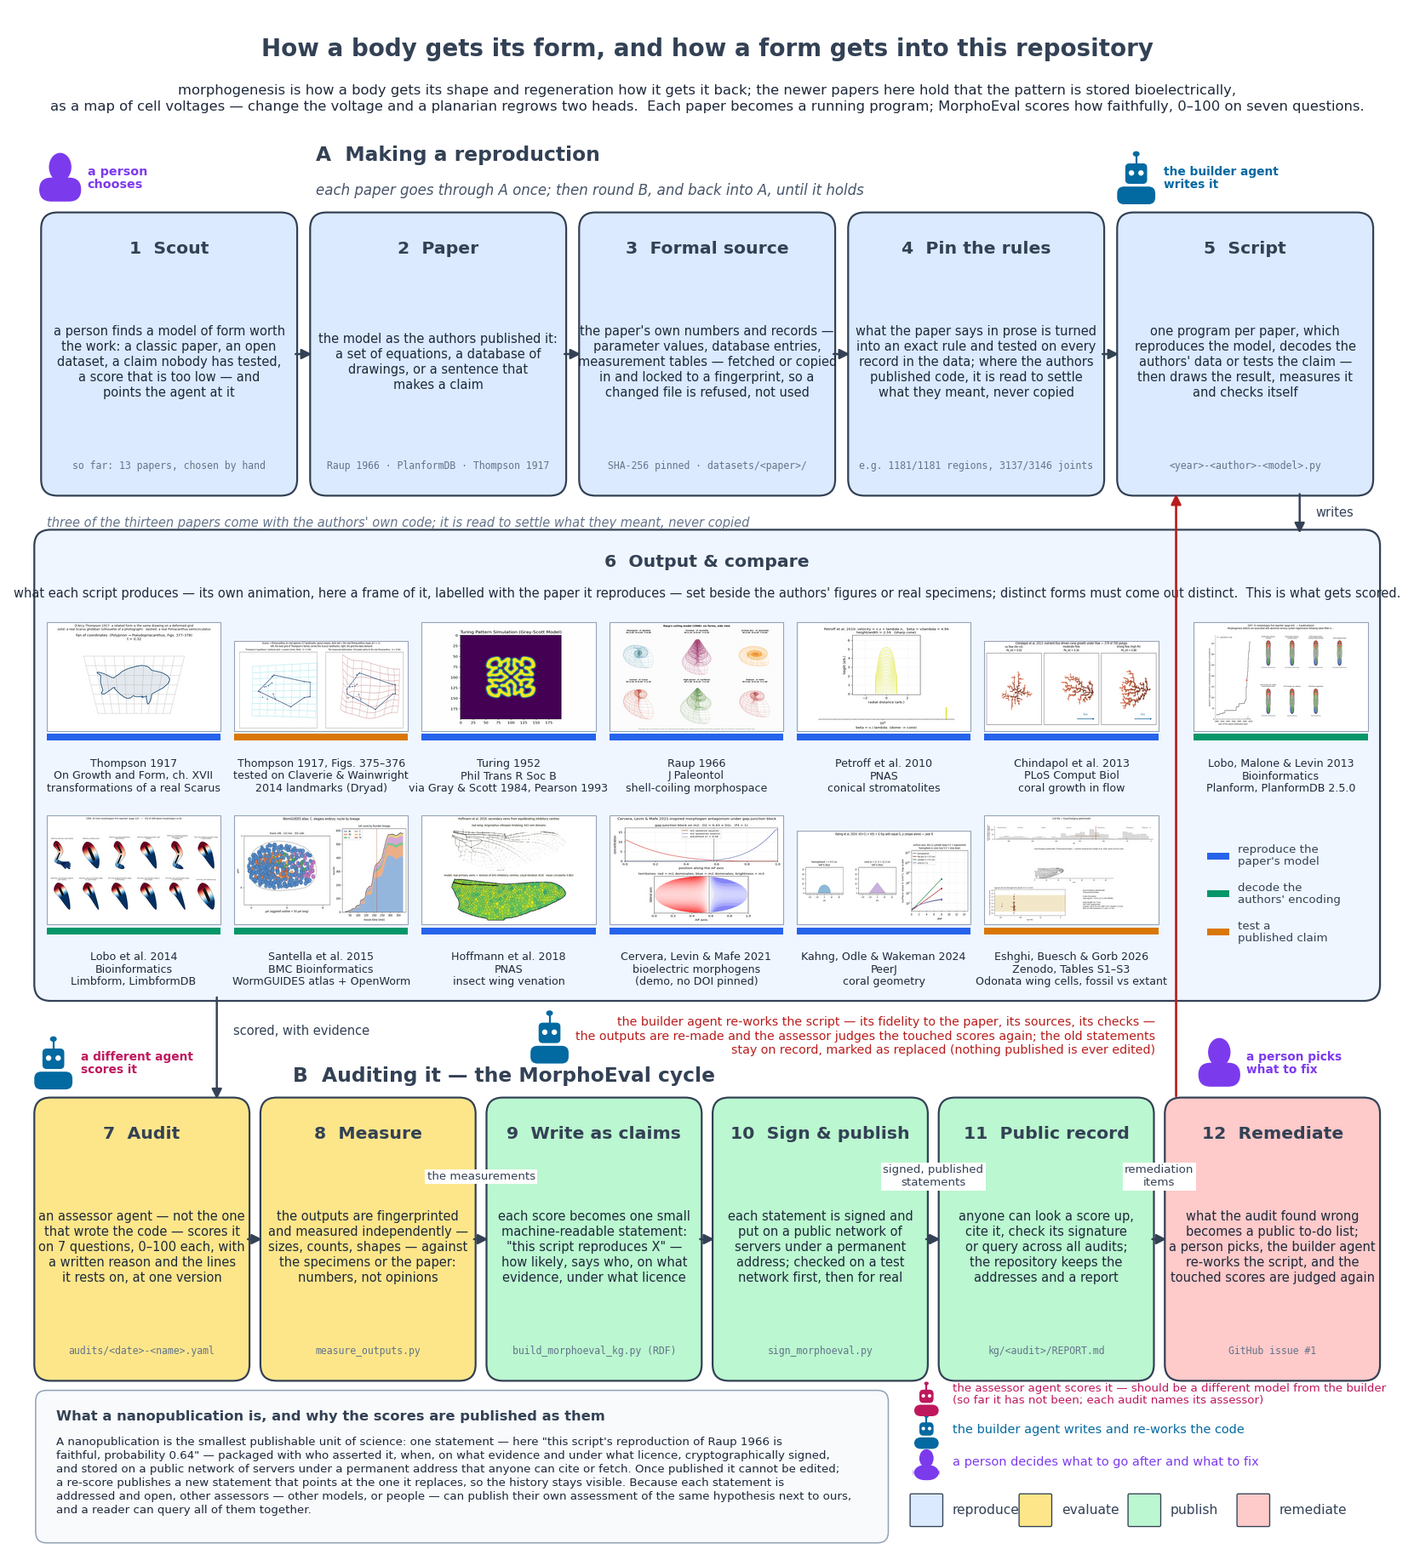
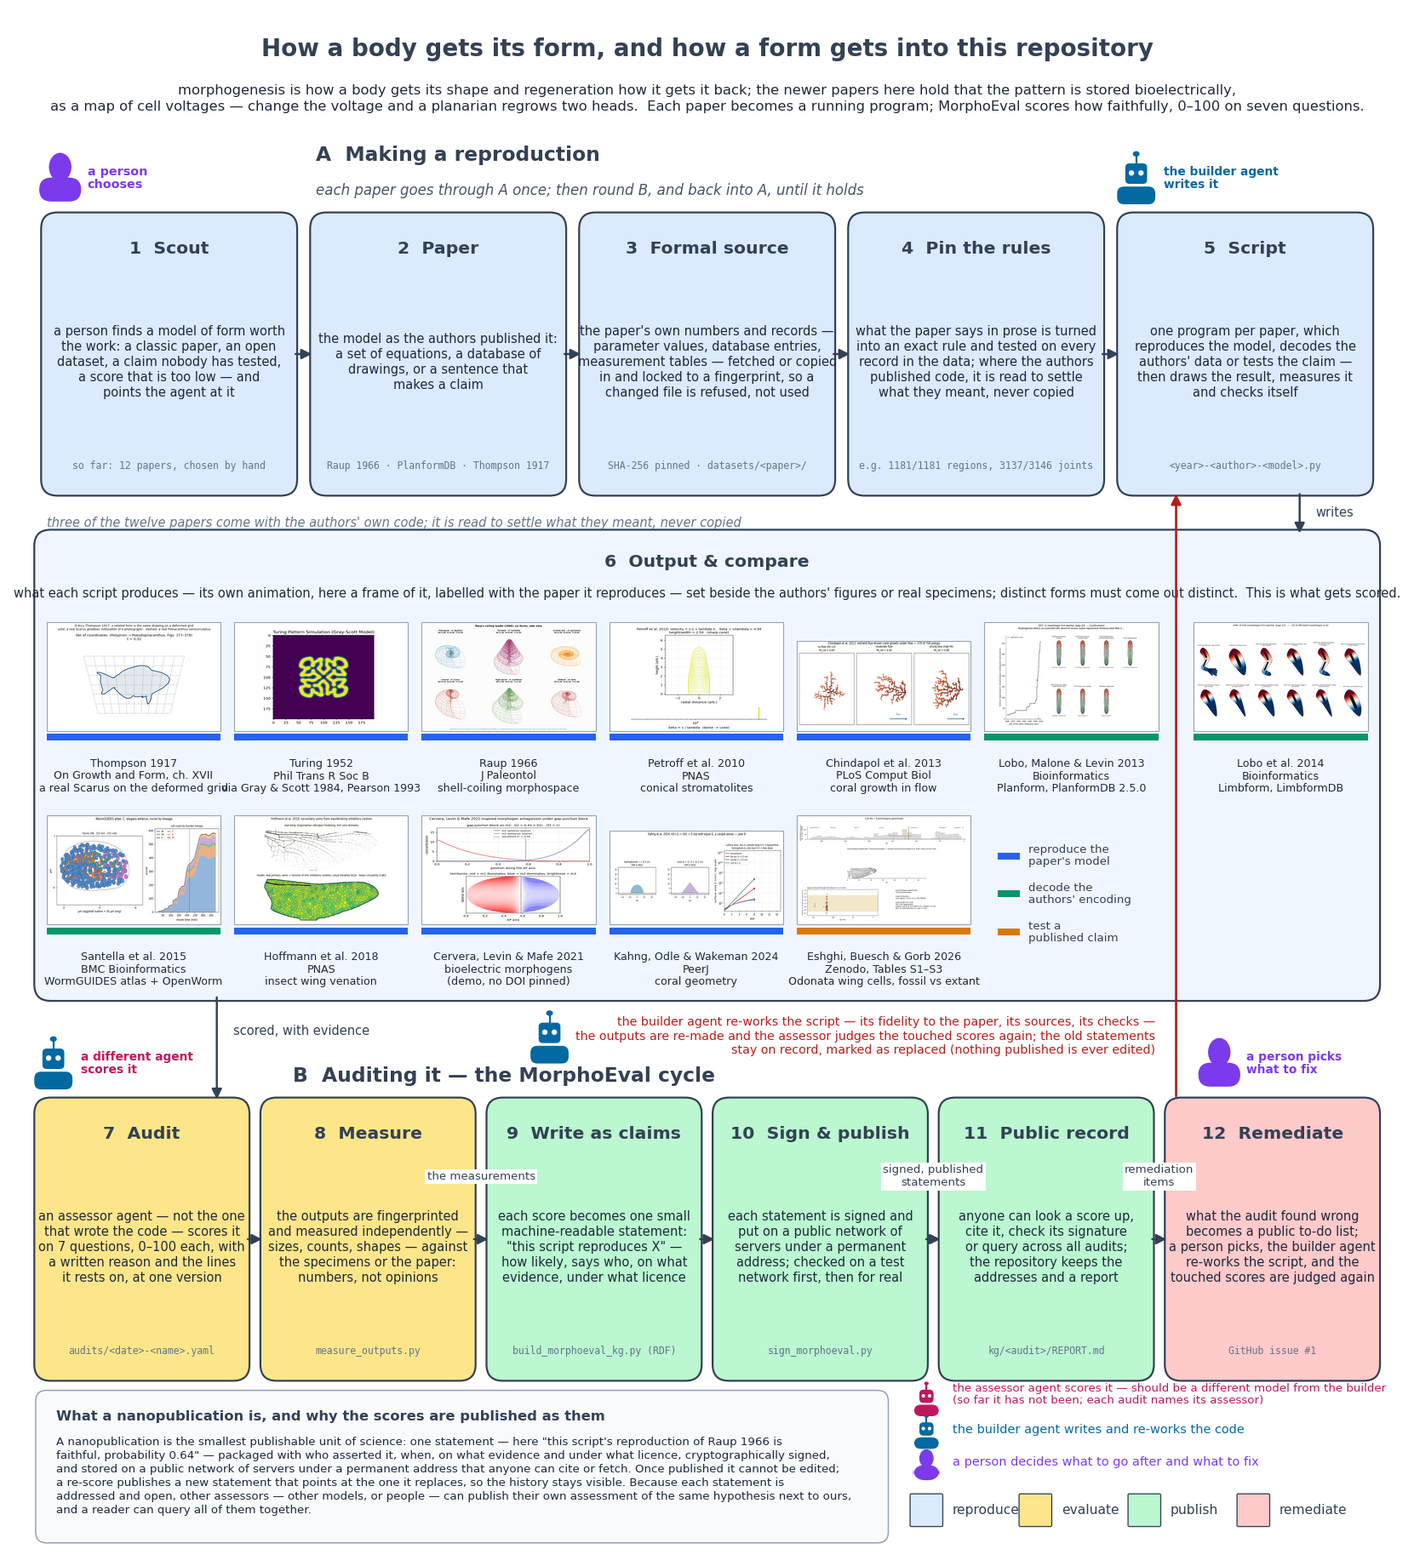
Drop the landmark-polygon Thompson tile from the diagram and montage; the real-fish tile stands for Thompson

diff --git a/morphoeval/report/draw_pipeline.py b/morphoeval/report/draw_pipeline.py
@@ -57,7 +57,7 @@ BOXES = {
 }
 # the file or term behind each tier-B box, in small type under the plain-language body
 TERMS = {
-    "scout": "so far: 13 papers, chosen by hand", "paper": "Raup 1966 · PlanformDB · Thompson 1917",
+    "scout": "so far: 12 papers, chosen by hand", "paper": "Raup 1966 · PlanformDB · Thompson 1917",
     "source": "SHA-256 pinned · datasets/<paper>/", "rules": "e.g. 1181/1181 regions, 3137/3146 joints",
     "script": "<year>-<author>-<model>.py", "audit": "audits/<date>-<name>.yaml", "measure": "measure_outputs.py",
     "build": "build_morphoeval_kg.py (RDF)", "publish": "sign_morphoeval.py",
@@ -69,8 +69,7 @@ AGENTS = {"script": (BUILDER, "the builder agent\nwrites it"), "audit": (ASSESSO
 # the papers, in year order, with a frame of each reproduction's own animation (docs/media/*.gif)
 MEDIA = ROOT / "docs" / "media"
 PAPERS = [  # (gif, caption lines, kind)
-    ("thompson_transformations.gif",      "Thompson 1917\nOn Growth and Form, ch. XVII\ntransformations of a real Scarus", "reproduce"),
-    ("thompson_scarus_pomacanthus.gif",   "Thompson 1917, Figs. 375–376\ntested on Claverie & Wainwright\n2014 landmarks (Dryad)", "test"),
+    ("thompson_transformations.gif",      "Thompson 1917\nOn Growth and Form, ch. XVII\na real Scarus on the deformed grid", "reproduce"),
     ("turing_gray_scott.gif",             "Turing 1952\nPhil Trans R Soc B\nvia Gray & Scott 1984, Pearson 1993", "reproduce"),
     ("raup_shell_coiling.gif",            "Raup 1966\nJ Paleontol\nshell-coiling morphospace", "reproduce"),
     ("petroff_stromatolite_dome_to_cone.gif", "Petroff et al. 2010\nPNAS\nconical stromatolites", "reproduce"),
@@ -102,7 +101,7 @@ def gif_frame(name: str, frac: float = 0.55):
 
 
 def strip(ax):
-    """Box 6: the outputs.  Two rows of thumbnails (7 + 6), each a frame of a script's own animation, labelled
+    """Box 6: the outputs.  Two rows of thumbnails (7 + 5), each a frame of a script's own animation, labelled
     with the paper it comes from.  Framed like a tier-A box because it is one: the thing Compare and Audit look at."""
     cols, gap, wide = 7, 1.0, 2.6; tw = (97.0 - (cols - 2) * gap - wide) / cols; row_h = 14.2   # the last gap is wider: the fix loop runs through it
     top = YS + 2 * row_h + 5.8
@@ -123,7 +122,7 @@ def strip(ax):
         ax.add_patch(FancyBboxPatch((x, y + 5.6), tw, th, boxstyle="square,pad=0", fc="none", ec="#94a3b8", lw=0.5, zorder=4))
         ax.add_patch(FancyBboxPatch((x, y + 4.9), tw, 0.5, boxstyle="square,pad=0", fc=KIND_COL[kind], ec="none", zorder=3))
         ax.text(x + tw / 2, y + 2.3, cap, ha="center", va="center", fontsize=5.7, color="#1e293b", linespacing=1.15, zorder=3)
-    x = col_x[6]; y = YS                                              # legend in the free slot of row 2
+    x = col_x[5]; y = YS                                              # legend in the free slot of row 2 (the last slot stays empty: the fix loop runs past it)
     for j, (k, c) in enumerate(KIND_COL.items()):
         ax.add_patch(FancyBboxPatch((x + 1.0, y + 10.4 - j * 2.8), 1.6, 0.5, boxstyle="square,pad=0", fc=c, ec="none", zorder=3))
         ax.text(x + 3.2, y + 10.65 - j * 2.8, {"reproduce": "reproduce the\npaper's model", "decode": "decode the\nauthors' encoding",
@@ -261,7 +260,7 @@ def main(argv=None):
     arrow(ax, "paper", "r", "source", "l")
     arrow(ax, "source", "r", "rules", "l")
     arrow(ax, "rules", "r", "script", "l")
-    ax.text(XA[0], YA - 2.4, "three of the thirteen papers come with the authors' own code; it is read to settle what they meant, never copied",
+    ax.text(XA[0], YA - 2.4, "three of the twelve papers come with the authors' own code; it is read to settle what they meant, never copied",
             ha="left", va="center", fontsize=6.6, color="#64748b", style="italic")
 
     # Script -> outputs (down into box 6), outputs -> Audit (down out of box 6)

diff --git a/docs/media/make_montage.py b/docs/media/make_montage.py
@@ -25,7 +25,6 @@ ROOT = HERE.parents[1]
 # (gif, year, label, script) in year order; the label is what fits under a ~200-px tile
 CLIPS = [
     ("thompson_transformations.gif",       "1917", "Thompson, transformations (real fish)",  "thompson/1917-thompson.py"),
-    ("thompson_scarus_pomacanthus.gif",    "1917", "Thompson, Scarus → Pomacanthus", "thompson/1917-thompson-scarus-pomacanthus.py"),
     ("turing_gray_scott.gif",              "1952", "Turing / Gray–Scott patterns",            "1952-turing-morpho.py"),
     ("raup_shell_coiling.gif",             "1966", "Raup, shell coiling",                     "create_raup_animations.py"),
     ("petroff_stromatolite_dome_to_cone.gif", "2010", "Petroff, stromatolites",               "2010-petroff-stromatolite.py"),
@@ -38,6 +37,8 @@ CLIPS = [
     ("kahng_coral_geometry_growth.gif",    "2024", "Kahng, coral geometry",                   "2024-kahng-coral-geometry.py"),
     ("odonata_wing_cells_deep_time.gif",   "2026", "Eshghi, Odonata wing cells",              "2026-eshghi-odonata-wing-cells.py"),
 ]
+# scored scripts that have no tile of their own (their output is a still, or another tile of the same paper stands for them)
+SCORED_ONLY = {"thompson/1917-thompson-scarus-pomacanthus.py": ("1917", "Thompson fish")}
 BG, FG, DIM, ACCENT = (250, 250, 248), (30, 41, 59), (100, 116, 139), (23, 190, 207)
 
 
@@ -85,6 +86,7 @@ def score_tile(w: int, h: int, sc: dict[str, float]) -> Image.Image:
     short = {"1952-turing-morpho.py": "Turing", "create_raup_animations.py": "Raup", "2015-santella-wormguides-celegans.py": "C. elegans",
              "2026-eshghi-odonata-wing-cells.py": "Odonata", "thompson/1917-thompson-scarus-pomacanthus.py": "Thompson fish"}
     rows = [(c[1], short.get(c[3], c[2].split(",")[0]), sc[c[3]]) for c in CLIPS if c[3] in sc]
+    rows += [(y, n, sc[s]) for s, (y, n) in SCORED_ONLY.items() if s in sc]            # scored scripts without a tile
     rows.sort(key=lambda r: -r[2])
     y0, bar_h = 24, max(8, (h - 30) // max(1, len(rows)))
     fnt = font(8)

diff --git a/README.md b/README.md
@@ -6,9 +6,9 @@ A collection of small, self-contained reproductions of published models of biolo
 
 Morphogenesis is how a living thing gets its shape, and regeneration is how it gets it back: cells divide, move and signal until a body plan appears, or reappears after a cut. The classic models of form reproduced here are geometric ([Thompson's transformations](#thompson1917-thompsonpy), [Raup's coiling shells](#1966-rauppy)), chemical ([Turing's reacting and diffusing morphogens](#1952-turing-morphopy)) or physical ([coral](#2013-chindapol-coral-flowpy) and [stromatolite](#2010-petroff-stromatolitepy) growth shaped by flow and light). The newer idea most of the rest turn on is that the pattern is also stored and read out *bioelectrically*: every cell holds a resting voltage across its membrane, neighbouring cells share it through gap junctions, and the resulting voltage map across a tissue tells it where a head, a tail or a limb belongs. Change the voltage and the form changes — block the junctions and a planarian regrows two heads. That is the experiment the [Planform](#2013-lobo-planform-morphologypy) and [Limbform](#2014-lobo-limbform-morphologypy) databases record, hundreds of variants at a time, as formal graphs of what was cut, what was blocked and what grew back, and that the [Cervera–Levin–Mafe](#2021-cervera–levin–mafepy) model puts into equations. The repository turns such papers into running programs whose output *is* the form; MorphoEval then scores how faithfully each program follows its paper.
 
-![All thirteen reproductions, with their MorphoEval scores](./docs/media/all_forms_montage.gif)
+![The reproductions, with their MorphoEval scores](./docs/media/all_forms_montage.gif)
 
-*Every form in the repository, 1917–2026, each animation playing once per loop; the last tile is the MorphoEval overall score. Made by [`docs/media/make_montage.py`](./docs/media/make_montage.py) from the per-script animations below.*
+*Every animated form in the repository, 1917–2026 (the Thompson Scarus → Pomacanthus fit is a still and is represented by its score), each animation playing once per loop; the last tile is the MorphoEval overall score. Made by [`docs/media/make_montage.py`](./docs/media/make_montage.py) from the per-script animations below.*
 
 Each script is run directly (`python3 <script>.py`); rendered outputs (PNG/GIF) are written to the working directory and are git-ignored. Every entry below has a small animation of the morphology it produces (in [`docs/media/`](./docs/media/), downsized copies of the scripts' own GIF output; [`docs/media/README.md`](./docs/media/README.md) records how each was made). Setup: `python3 -m venv venv && source venv/bin/activate && pip install -r requirements.txt` (lower bounds; `requirements.lock.txt` has the exact versions the MorphoEval audits were run with — Python 3.14.7, numpy 2.5.4, scipy 1.16.3, matplotlib 3.10.7, scikit-image 0.26.0 — and installs cleanly into a fresh venv).
 
@@ -260,7 +260,7 @@ Thompson-focused notes and dataset curation are in:
 
 [`morphoeval/`](./morphoeval/) is a seven-dimension rubric (model fidelity, specimen match, parameter expressivity, morphometric validation, source traceability, code traceability, reproducibility package; weights sum to 100) applied to the scripts above, with every score backed by line-pinned evidence at a recorded commit and by measurements taken on the rendered outputs. Audits are YAML files under `morphoeval/audits/`. Each score is then published as a *nanopublication*: the smallest publishable unit of science — one statement ("this script's reproduction of Raup 1966 is faithful, probability 0.64") packaged with who asserted it, when, on what evidence and under what licence, cryptographically signed, and stored on a public network of servers under a permanent address that anyone can cite, fetch or query. Published statements are never edited; a re-score publishes new ones that point at those they replace, so the history stays visible, and other assessors (other models, or people) can publish their own assessment of the same hypothesis next to ours. In the vocabulary of the network: ProbKnow-conformant nanopubs, one `pk:LLMClaimAssessment` per dimension with `schema:PropertyValue` measurement evidence, re-scores linked by `npx:supersedes`.
 
-How a body gets its form, and how a form gets into the repository. Two lines under the title say what morphogenesis is and that the newer papers hold the pattern to be stored bioelectrically. Tier A: a person scouts — picks a paper, dataset or claim worth the work and points the agent at it — then paper → its formal source → rules pinned and verified on the data → script. Box 6, between the tiers, is what the scripts produce: the thirteen reproductions' own animations (playing), each labelled with its paper and colour-coded by what the script does with it (reproduce the paper's model from its equations, decode the authors' formal encoding, or test a published claim), set beside the authors' figures or specimens — this is what gets scored. Tier B: the audit cycle, from the reviewer's scores to signed public statements, to a person who reads them and decides what to fix next; the builder agent then re-works the script — its fidelity to the paper, its sources, its checks — and the fix runs back up through the outputs into the script. Purple figures mark where people decide; the two robots are the builder agent (writes and re-works the code) and the assessor agent (scores it), which should be different models — so far they have not been, and each audit names its assessor (the Mermaid source is in [`morphoeval/README.md`](./morphoeval/README.md#the-cycle)):
+How a body gets its form, and how a form gets into the repository. Two lines under the title say what morphogenesis is and that the newer papers hold the pattern to be stored bioelectrically. Tier A: a person scouts — picks a paper, dataset or claim worth the work and points the agent at it — then paper → its formal source → rules pinned and verified on the data → script. Box 6, between the tiers, is what the scripts produce: the reproductions' own animations (playing), each labelled with its paper and colour-coded by what the script does with it (reproduce the paper's model from its equations, decode the authors' formal encoding, or test a published claim), set beside the authors' figures or specimens — this is what gets scored. Tier B: the audit cycle, from the reviewer's scores to signed public statements, to a person who reads them and decides what to fix next; the builder agent then re-works the script — its fidelity to the paper, its sources, its checks — and the fix runs back up through the outputs into the script. Purple figures mark where people decide; the two robots are the builder agent (writes and re-works the code) and the assessor agent (scores it), which should be different models — so far they have not been, and each audit names its assessor (the Mermaid source is in [`morphoeval/README.md`](./morphoeval/README.md#the-cycle)):
 
 ![How a reproduction is made and how MorphoEval scores it](./docs/media/morphoeval_pipeline.gif)
 

diff --git a/morphoeval/report/report.md b/morphoeval/report/report.md
@@ -96,7 +96,7 @@ purpose, unverified.
 
 # Method
 
-![How a body gets its form, and how a form gets into the repository. Two lines under the title say what morphogenesis is and that the newer papers hold the pattern to be stored bioelectrically. Tier A, making a reproduction: a person scouts, choosing a paper, dataset or claim worth the work and pointing the agent at it; the model as published (equations, an encoding, or a claim); the paper's own formal source (parameter values, database or atlas records, measurement tables), fetched or vendored with a pinned hash; the rules pinned down — inferred from prose, verified on every record, with the authors' code read to settle semantics where it exists; and the script, which reproduces, decodes or tests. Box 6, between the tiers: what the scripts produce — a frame of each of the thirteen reproductions' own animations, labelled with its paper (author, year, venue, data source) and colour-coded by what the script does with the paper — set beside the authors' figures or specimens; this is what gets scored. Tier B, the MorphoEval cycle: audit with line-pinned evidence at a commit, measurement of the rendered outputs, each score written as a machine-readable claim, signing and publication through the test registry to production, the public record, and remediation, where a person reads the scores and picks what to fix; the fix runs back up through the outputs into the script, producing a new commit and a re-audit of the touched dimensions that supersedes the earlier nanopublications. Purple figures mark the two places people decide; the two robots are the builder agent, which writes and re-works the code, and the assessor agent, which scores it — meant to be different models, which so far they have not been.](pipeline.png){height=70%}
+![How a body gets its form, and how a form gets into the repository. Two lines under the title say what morphogenesis is and that the newer papers hold the pattern to be stored bioelectrically. Tier A, making a reproduction: a person scouts, choosing a paper, dataset or claim worth the work and pointing the agent at it; the model as published (equations, an encoding, or a claim); the paper's own formal source (parameter values, database or atlas records, measurement tables), fetched or vendored with a pinned hash; the rules pinned down — inferred from prose, verified on every record, with the authors' code read to settle semantics where it exists; and the script, which reproduces, decodes or tests. Box 6, between the tiers: what the scripts produce — a frame of each of the reproductions' own animations, labelled with its paper (author, year, venue, data source) and colour-coded by what the script does with the paper — set beside the authors' figures or specimens; this is what gets scored. Tier B, the MorphoEval cycle: audit with line-pinned evidence at a commit, measurement of the rendered outputs, each score written as a machine-readable claim, signing and publication through the test registry to production, the public record, and remediation, where a person reads the scores and picks what to fix; the fix runs back up through the outputs into the script, producing a new commit and a re-audit of the touched dimensions that supersedes the earlier nanopublications. Purple figures mark the two places people decide; the two robots are the builder agent, which writes and re-works the code, and the assessor agent, which scores it — meant to be different models, which so far they have not been.](pipeline.png){height=70%}
 
 ## Audits
 

diff --git a/morphoeval/README.md b/morphoeval/README.md
@@ -46,7 +46,7 @@ The forms in question are the shapes of bodies — how they arise in development
 paper, dataset or claim worth the work and pointing the agent at it — and ends in one of three kinds of script
 (reproduce the paper's model from its equations, decode the authors' formal encoding into form, or test a
 published claim against measurements). Between the tiers sits what the scripts produce — box 6, the
-thirteen animations, each labelled with its paper — which is what tier B scores; a person reads the scores
+twelve animations, each labelled with its paper — which is what tier B scores; a person reads the scores
 and decides what to fix or where to go next; the builder agent then re-works the script — its fidelity to
 the paper, its sources, its checks — and the fix runs back through box 6 into the script (👤 marks the two
 places people decide). Two agent roles are meant to be distinct: the **builder** that writes and re-works the
@@ -56,7 +56,7 @@ nanopubs on the same hypotheses, and running one is the most important open item
 [morpholib#1](https://github.com/fractastical/morpholib/issues/1). Each pass pins a commit; scores are 0–100 per dimension with a weighted mean overall; published
 nanopubs are immutable and re-scores supersede them. The same figure as an image (for the PDF report
 and anything that cannot render Mermaid) is `docs/media/morphoeval_pipeline.png`, drawn by
-`morphoeval/report/draw_pipeline.py`; in it box 6 is the thirteen reproductions' own animations in
+`morphoeval/report/draw_pipeline.py`; in it box 6 is the reproductions' own animations in
 `docs/media/`, each labelled with its paper (author, year, venue, data source). `draw_pipeline.py --gif` writes `morphoeval_pipeline.gif`, the same figure with
 the thumbnails playing (used at the top of the root README); the PDF report uses the still.
 
@@ -77,7 +77,7 @@ flowchart TB
         SC --> P --> S --> R --> X
     end
 
-    O["6 Output &amp; compare<br/>what each script produces — its own figure and animation<br/>(the thirteen in docs/media/) — set beside the authors' figures<br/>or real specimens; distinct forms must come out distinct.<br/>This is what gets scored."]:::build
+    O["6 Output &amp; compare<br/>what each script produces — its own figure and animation<br/>(the twelve in docs/media/) — set beside the authors' figures<br/>or real specimens; distinct forms must come out distinct.<br/>This is what gets scored."]:::build
     X -- writes --> O
 
     subgraph B["B &nbsp;Auditing it — the MorphoEval cycle"]

diff --git a/docs/media/README.md b/docs/media/README.md
@@ -30,4 +30,4 @@ running time (Pillow 12.0.0). Total ≈ 15 MB.
 
 `thompson_scarus_pomacanthus_outlines.png` is a 1400-px, 256-colour copy of the still figure `thompson/1917-thompson-scarus-pomacanthus.py` writes as `thompson_scarus_pomacanthus_outlines.png` (2026-10-17): the real-outline test on two Wikimedia Commons photographs, whose credits (CC BY 4.0 and CC BY 2.0) are printed in the figure and listed in `datasets/thompson/README.md`.
 
-`all_forms_montage.gif` tiles the thirteen animations above (each resampled to 40 frames across its own loop, fitted whole into a 216-px tile, shared 128-colour palette) with a title tile and the MorphoEval overall scores read from the audit YAMLs; `python3 docs/media/make_montage.py` remakes it after any animation or score changes.
+`all_forms_montage.gif` tiles twelve of the animations above (the Scarus → Pomacanthus landmark animation is left out since 2026-10-17: the transformations tile now shows the real fish, and the fit's score still appears in the score tile) (each resampled to 40 frames across its own loop, fitted whole into a 216-px tile, shared 128-colour palette) with a title tile and the MorphoEval overall scores read from the audit YAMLs; `python3 docs/media/make_montage.py` remakes it after any animation or score changes.
